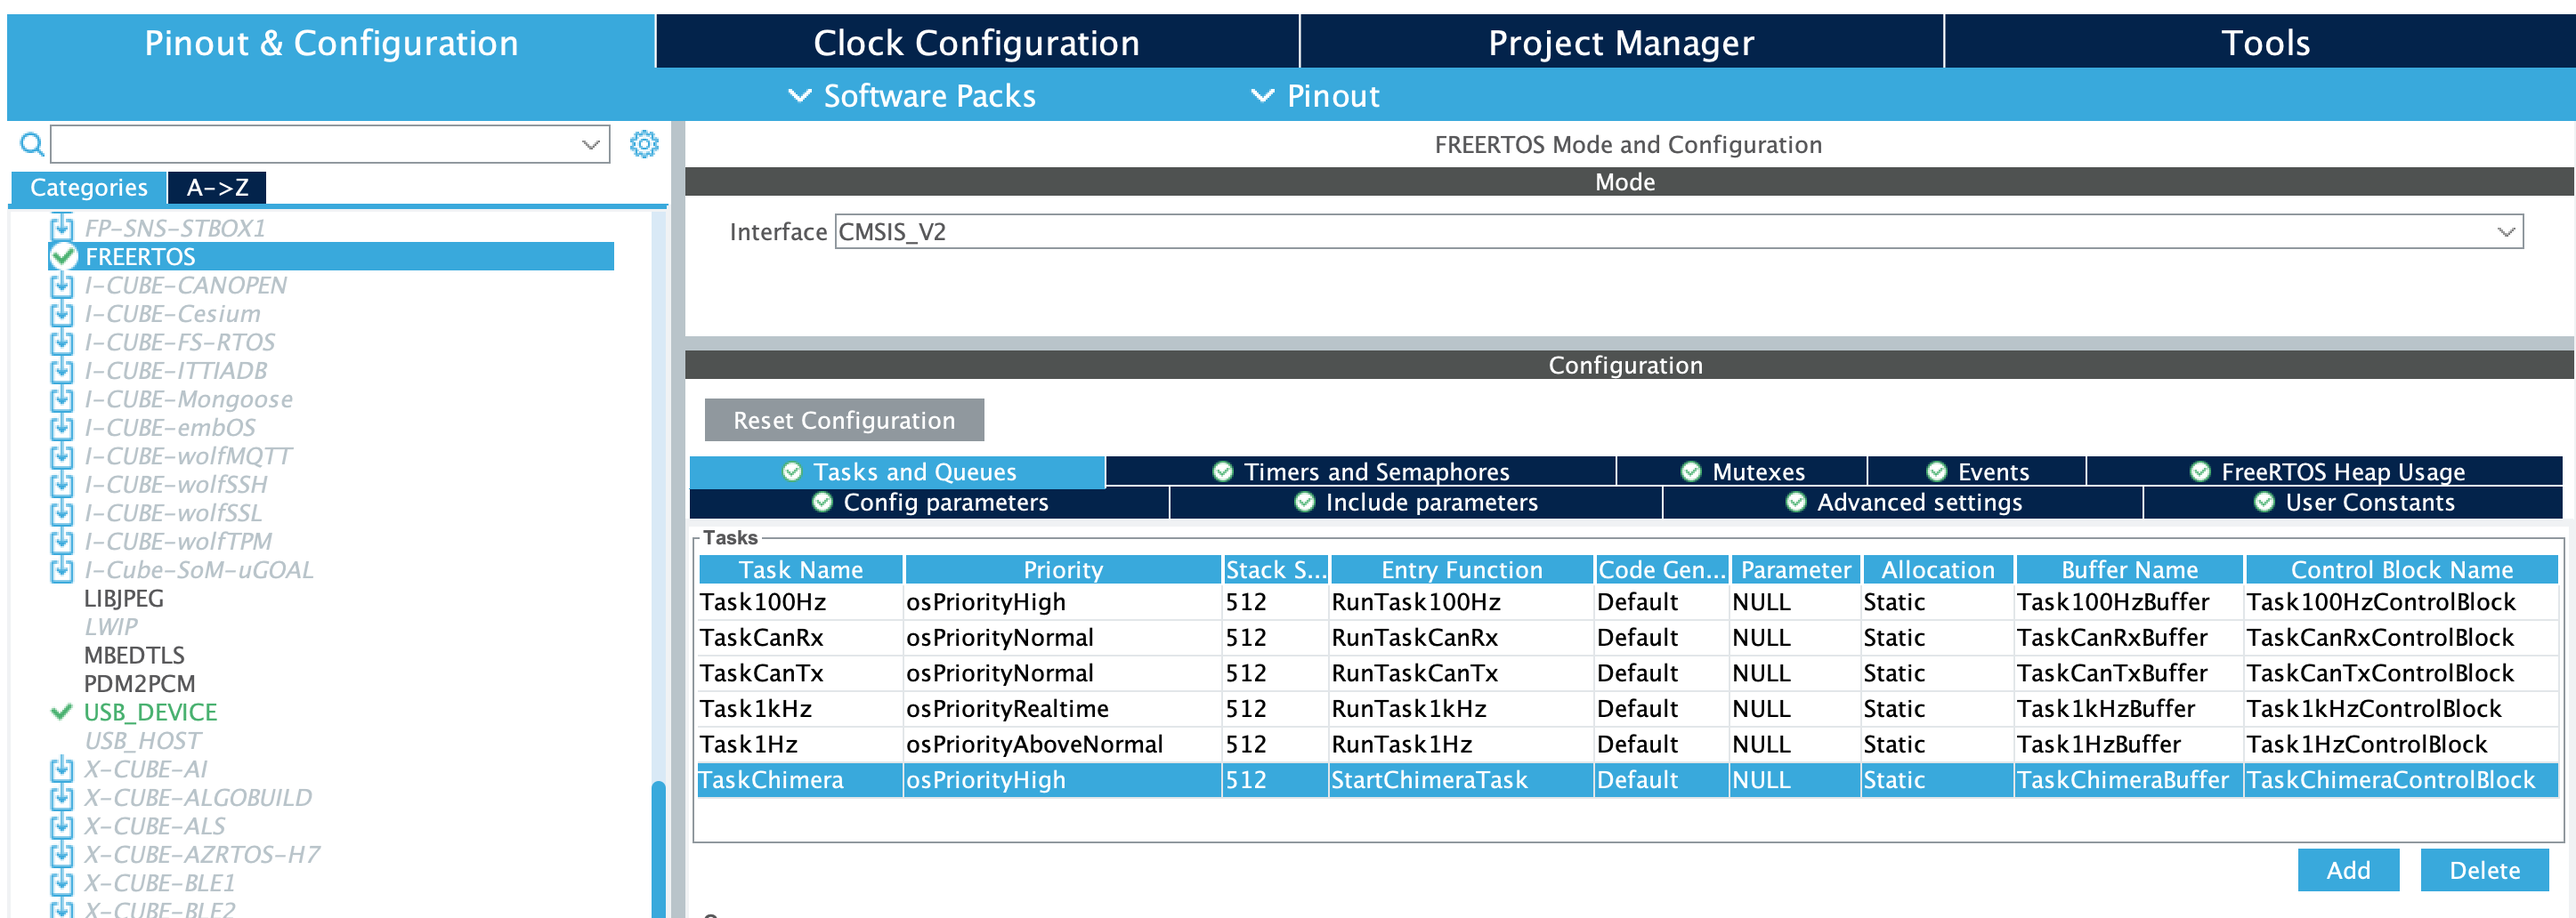
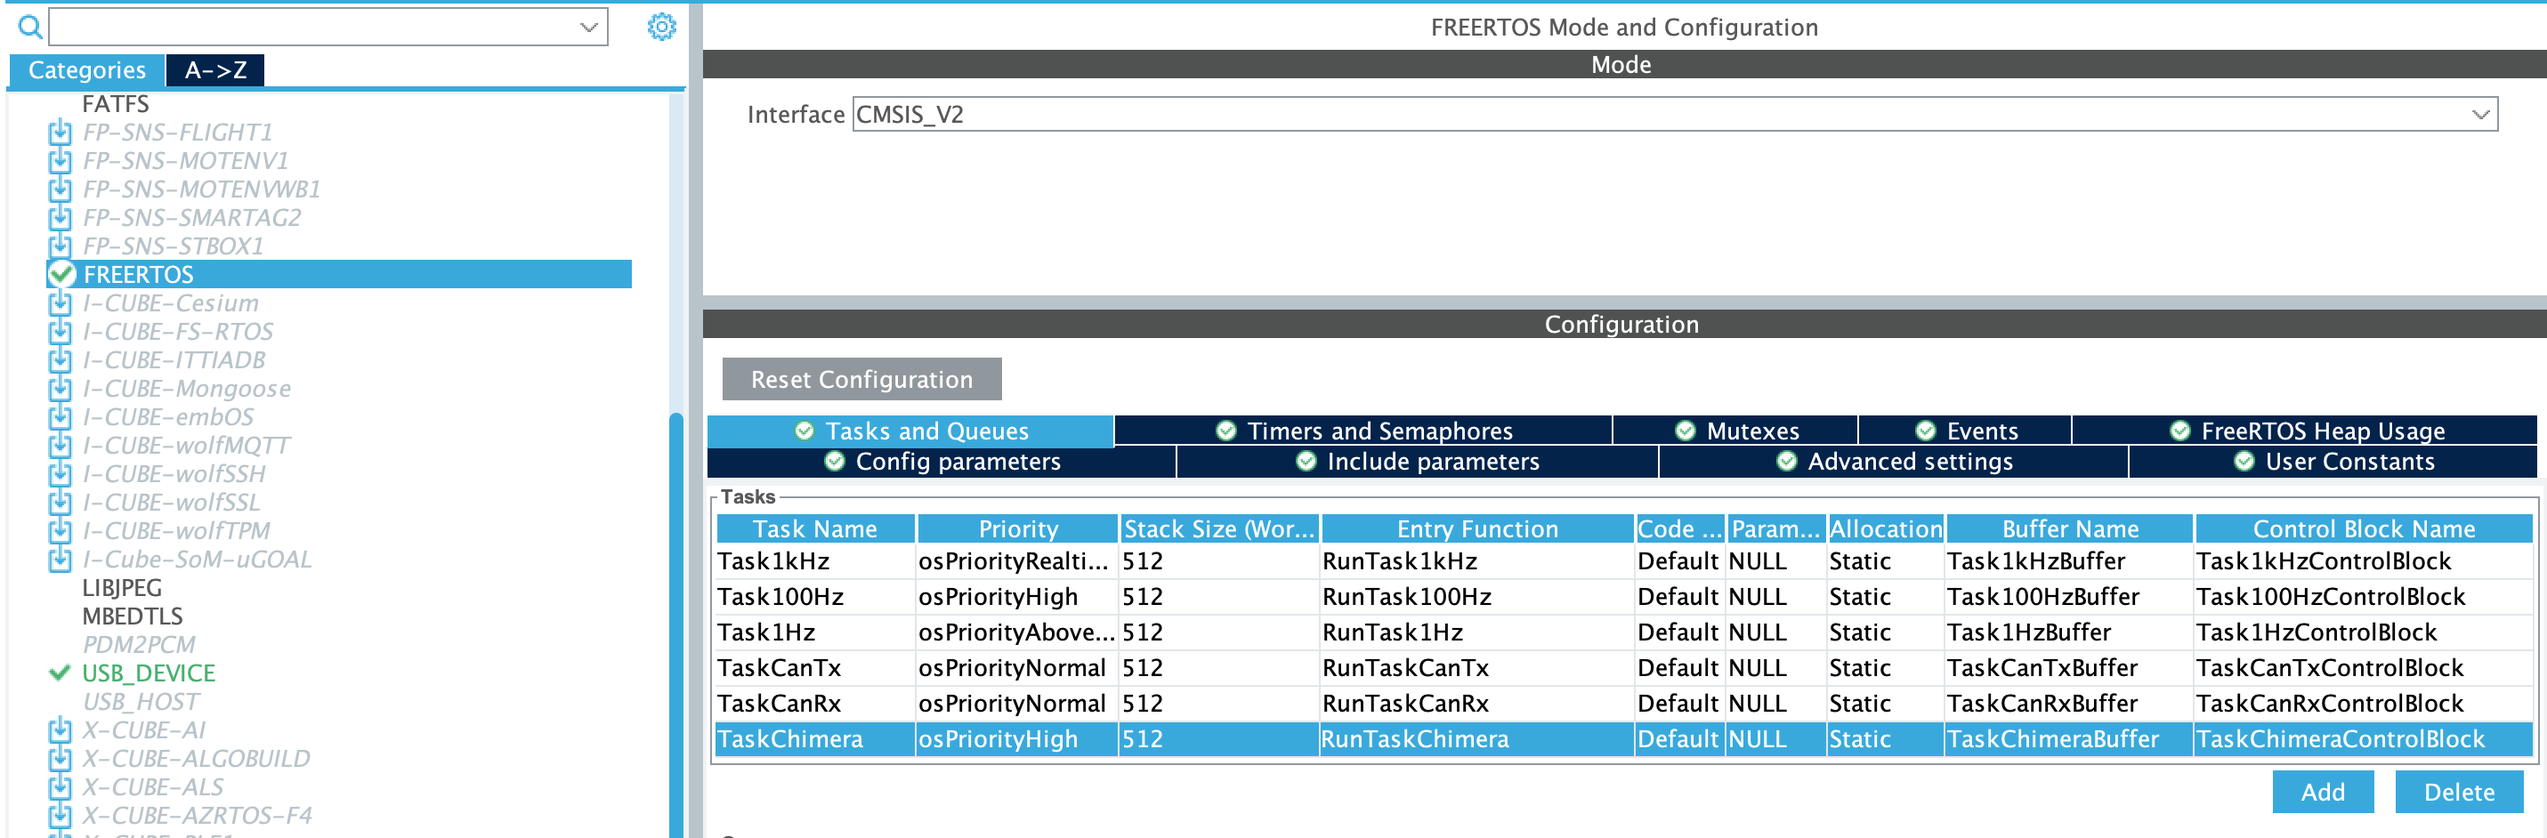
Configure F4Dev iocs.

diff --git a/firmware/chimera_v2/README.md b/firmware/chimera_v2/README.md
@@ -401,7 +401,6 @@ _Noreturn void tasks_runChimera(void)
 
 You will also have to add the decleration in the `tasks.h` file.
 
-
 ```c
 _Noreturn void tasks_runChimera(void);
 ```
@@ -409,7 +408,7 @@ _Noreturn void tasks_runChimera(void);
 Make sure to invoke this task function in `main.c`.
 
 ```c
-void RunChimeraTask(void *argument)
+void RunTaskChimera(void *argument)
 {
     /* USER CODE BEGIN RunChimeraTask */
     /* Infinite loop */
